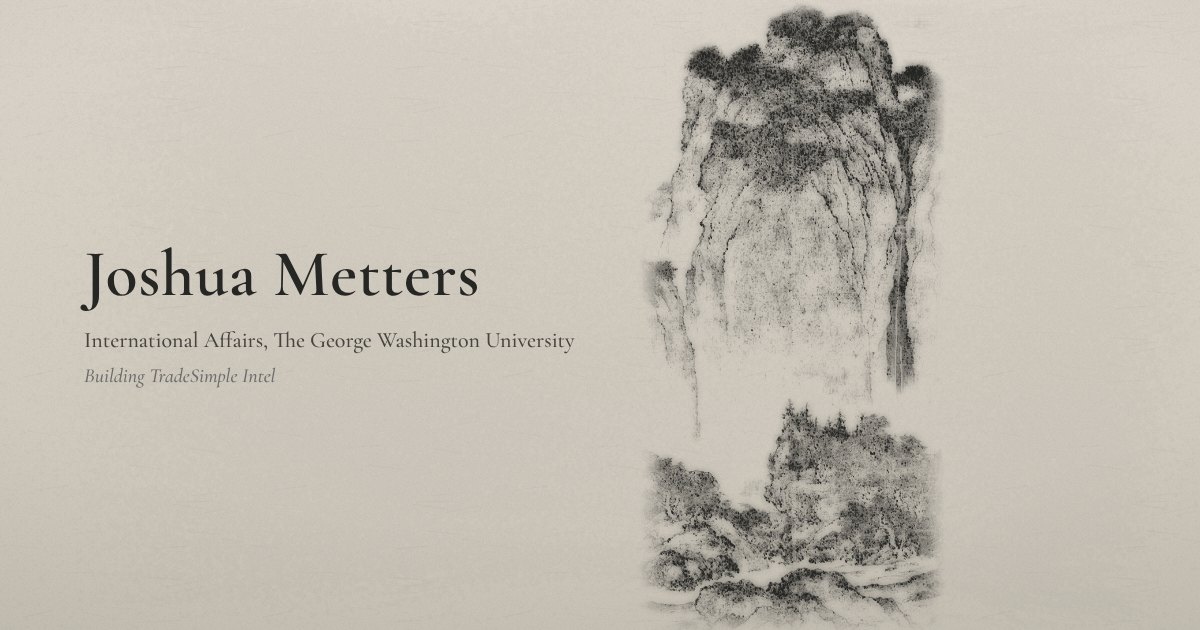
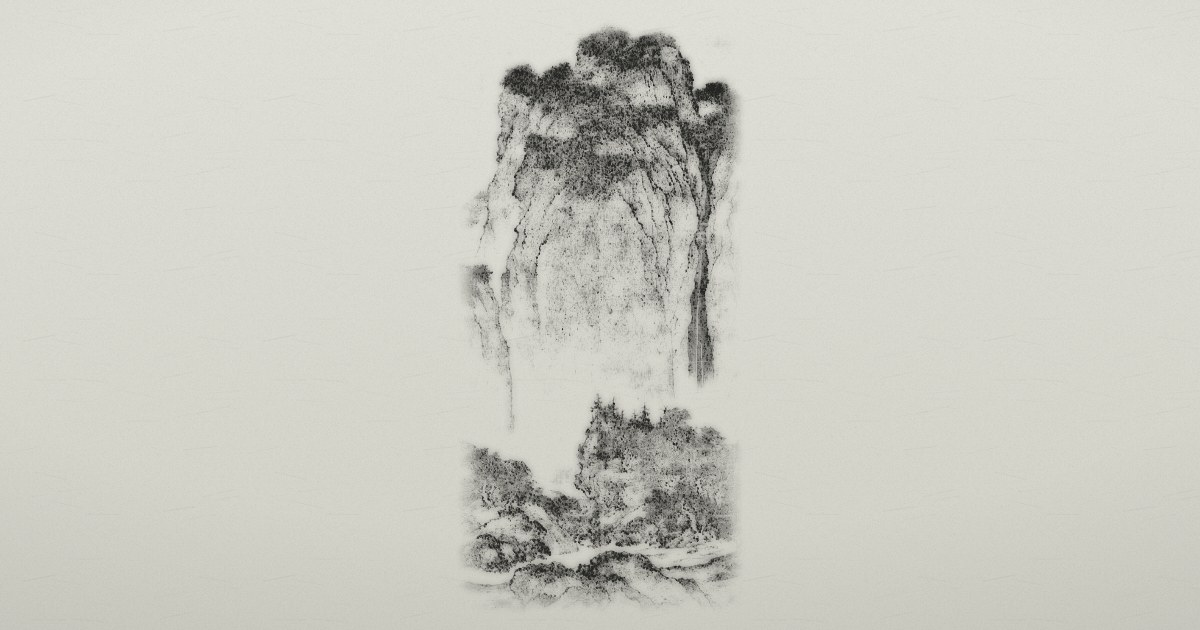
Make the link preview mysterious: Ink and Silk, just the mountain
Shared links now preview as "Ink and Silk" with "Grain gathers into
mountains. Scroll slowly." and a new og.jpg of Fan Kuan's great peak
alone on bare paper, with no name or affiliation.

Claude-Session: https://claude.ai/code/session_01GTEnbaHo4HtN7v7pNYb9q6

Changed region(s): [[0.0617, 0.0, 0.8017, 1.0]]

diff --git a/index.html b/index.html
@@ -4,7 +4,7 @@
 <meta charset="utf-8">
 <meta name="viewport" content="width=device-width, initial-scale=1, viewport-fit=cover">
 <title>Joshua Metters</title>
-<meta name="description" content="Joshua Metters. International Affairs at The George Washington University. Building TradeSimple Intel.">
+<meta name="description" content="Grain gathers into mountains. Scroll slowly.">
 <meta name="author" content="Joshua Metters">
 <meta name="theme-color" content="#E4E0D5">
 <link rel="icon" href="favicon.ico" sizes="any">
@@ -13,17 +13,17 @@
 <link rel="apple-touch-icon" href="apple-touch-icon.png">
 <link rel="canonical" href="https://joshua-metters.vercel.app/">
 <meta property="og:type" content="website">
-<meta property="og:site_name" content="Joshua Metters">
-<meta property="og:title" content="Joshua Metters">
-<meta property="og:description" content="Joshua Metters. International Affairs at The George Washington University. Building TradeSimple Intel.">
+<meta property="og:site_name" content="Ink and Silk">
+<meta property="og:title" content="Ink and Silk">
+<meta property="og:description" content="Grain gathers into mountains. Scroll slowly.">
 <meta property="og:url" content="https://joshua-metters.vercel.app/">
 <meta property="og:image" content="https://joshua-metters.vercel.app/og.jpg">
 <meta property="og:image:width" content="1200">
 <meta property="og:image:height" content="630">
-<meta property="og:image:alt" content="Joshua Metters, beside Fan Kuan's Travelers Among Mountains and Streams rendered in ink grain">
+<meta property="og:image:alt" content="A great mountain in ink grain on bare paper, after Fan Kuan's Travelers Among Mountains and Streams">
 <meta name="twitter:card" content="summary_large_image">
-<meta name="twitter:title" content="Joshua Metters">
-<meta name="twitter:description" content="Joshua Metters. International Affairs at The George Washington University. Building TradeSimple Intel.">
+<meta name="twitter:title" content="Ink and Silk">
+<meta name="twitter:description" content="Grain gathers into mountains. Scroll slowly.">
 <meta name="twitter:image" content="https://joshua-metters.vercel.app/og.jpg">
 <script type="application/ld+json">{"@context":"https://schema.org","@type":"Person","name":"Joshua Metters","alternateName":"謝家祥","affiliation":"The George Washington University","url":"https://joshua-metters.vercel.app/","sameAs":["https://www.linkedin.com/in/joshua-metters-8b0042225/","https://joshmetters.substack.com/","https://github.com/Jhsiehm"]}</script>
 <link rel="preconnect" href="https://fonts.googleapis.com">
